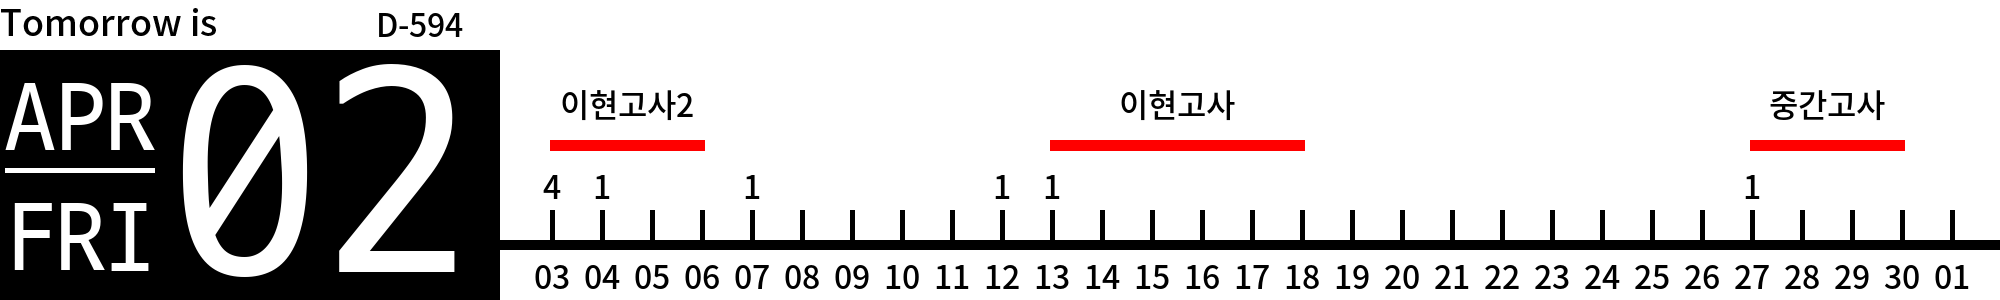
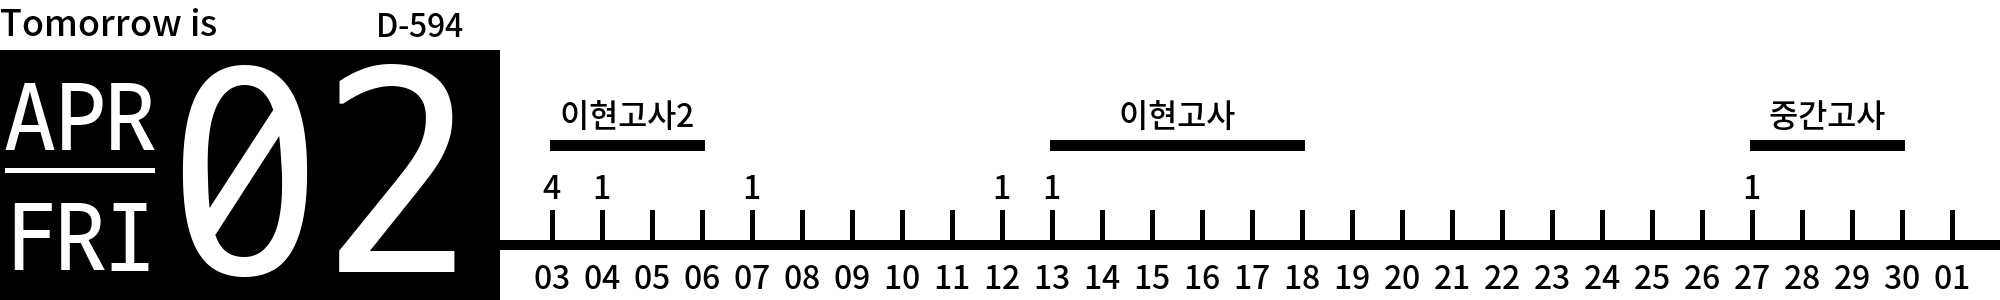
little adjustment

Changed region(s): [[0.868, 0.3, 0.961, 0.51], [0.248, 0.3, 0.372, 0.51], [0.527, 0.3, 0.651, 0.51]]

diff --git a/main.py b/main.py
@@ -133,8 +133,8 @@ def setupperpart():
                 dur = int(j[2])
                 desc = str(j[1])
                 if (dur > 0):
-                    dt.rectangle(((nextx - 2, 140), (nextx + (dur * 50) + 2, 150)), fill = 'red')
-                    dt.text(getmiddletext(desc, satft, (nextx + ((dur * 50)) / 2), 100), desc, font = satft,  fill = (0, 0, 0))
+                    dt.rectangle(((nextx - 2, 140), (nextx + (dur * 50) + 2, 150)), fill = 'black')
+                    dt.text(getmiddletext(desc, satft, (nextx + ((dur * 50)) / 2), 110), desc, font = satft,  fill = (0, 0, 0))
 
             dt.text(getmiddletext(lenstr, satft, nextx, 180), lenstr, font = satft, fill = (0, 0, 0))
 
